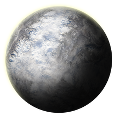
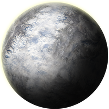
Added team colours

diff --git a/bauralux.js b/bauralux.js
@@ -56,20 +56,44 @@
 
   Q.Sprite.extend("Planet", {
     init: function(p) {
-      var asset, assets, scale;
-      assets = [0, 1].map(function(i) {
-        return "/assets/images/planet" + i + ".png";
-      });
-      asset = assets[Math.floor(Math.random() * 10) % assets.length];
+      var scale;
       scale = Math.ceil(Math.random() * 10) / 10;
       this._super(Q._extend({
-        asset: asset,
+        asset: this.randomAsset(),
         scale: scale,
         type: Q.SPRITE_NONE
       }, p));
-      console.log('HERE');
       this.add('2d');
       return this.on("hit.sprite", this.onCollision);
+    },
+    randomAsset: function() {
+      var assets;
+      assets = [0, 1].map(function(i) {
+        return "/assets/images/planet" + i + ".png";
+      });
+      return assets[Math.floor(Math.random() * 10) % assets.length];
+    },
+    teamColor: function() {
+      switch (this.p.team) {
+        case "RED":
+          return "rgba(255,0,0,0.25)";
+        case "GREEN":
+          return "rgba(0,255,0,0.25)";
+        case "BLUE":
+          return "rgba(0,0,255,0.25)";
+        default:
+          return "rgba(45,45,45,0.5)";
+      }
+    },
+    draw: function(ctx) {
+      ctx.save();
+      ctx.globalCompositeOperation = 'lighter';
+      ctx.drawImage(this.asset(), 0, 0, this.asset().width, this.asset().height);
+      ctx.beginPath();
+      ctx.fillStyle = this.teamColor();
+      ctx.arc(this.asset().width / 2, this.asset().height / 2, this.asset().width / 2, 0, 180);
+      ctx.fill();
+      return ctx.restore();
     },
     onCollision: (function(_this) {
       return function(collision) {
@@ -120,13 +144,16 @@
     planets = [
       planetOne = new Q.Planet({
         x: 300,
-        y: 100
+        y: 100,
+        team: 'RED'
       }), planetTwo = new Q.Planet({
         x: 700,
-        y: 500
+        y: 500,
+        team: 'GREEN'
       }), planetThree = new Q.Planet({
         x: 1200,
-        y: 300
+        y: 300,
+        team: 'BLUE'
       })
     ];
     for (j = 1, ref = Q.width * Q.height / 10000; 1 <= ref ? j <= ref : j >= ref; 1 <= ref ? j++ : j--) {
